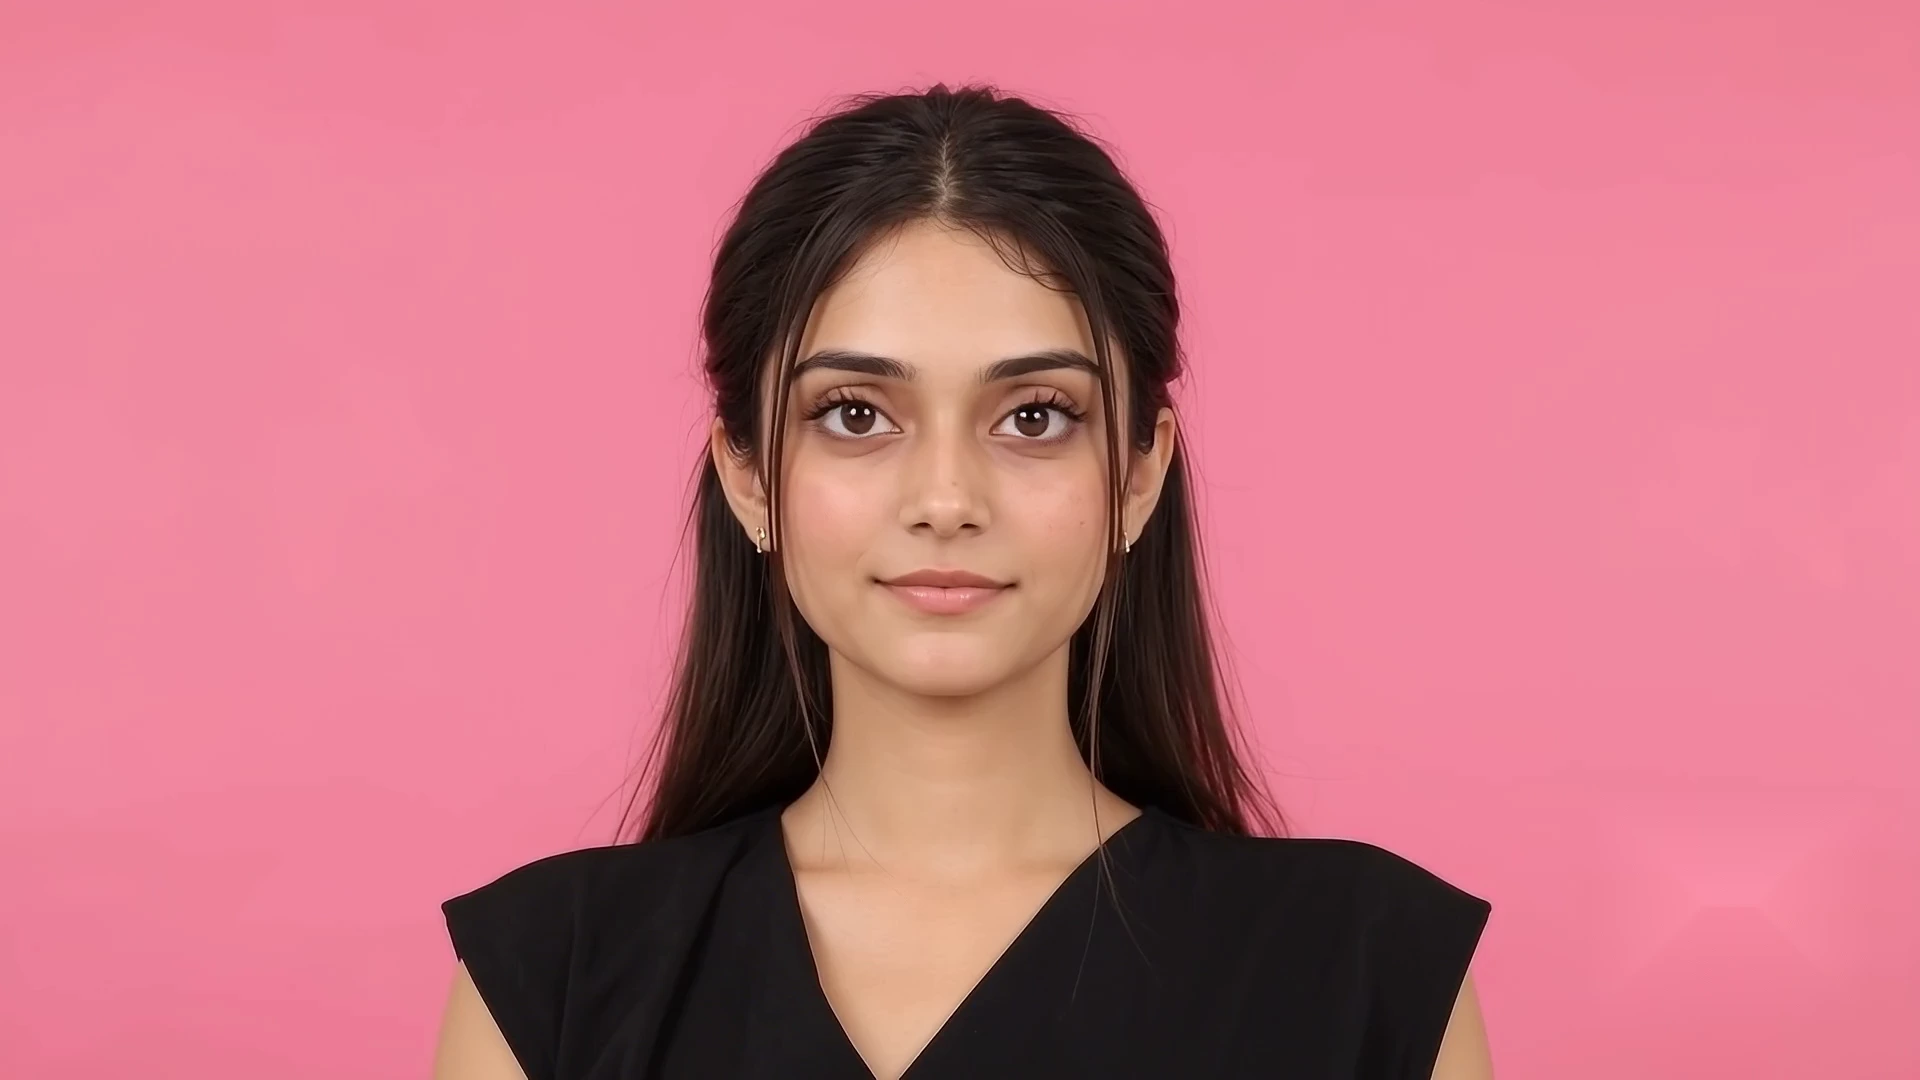
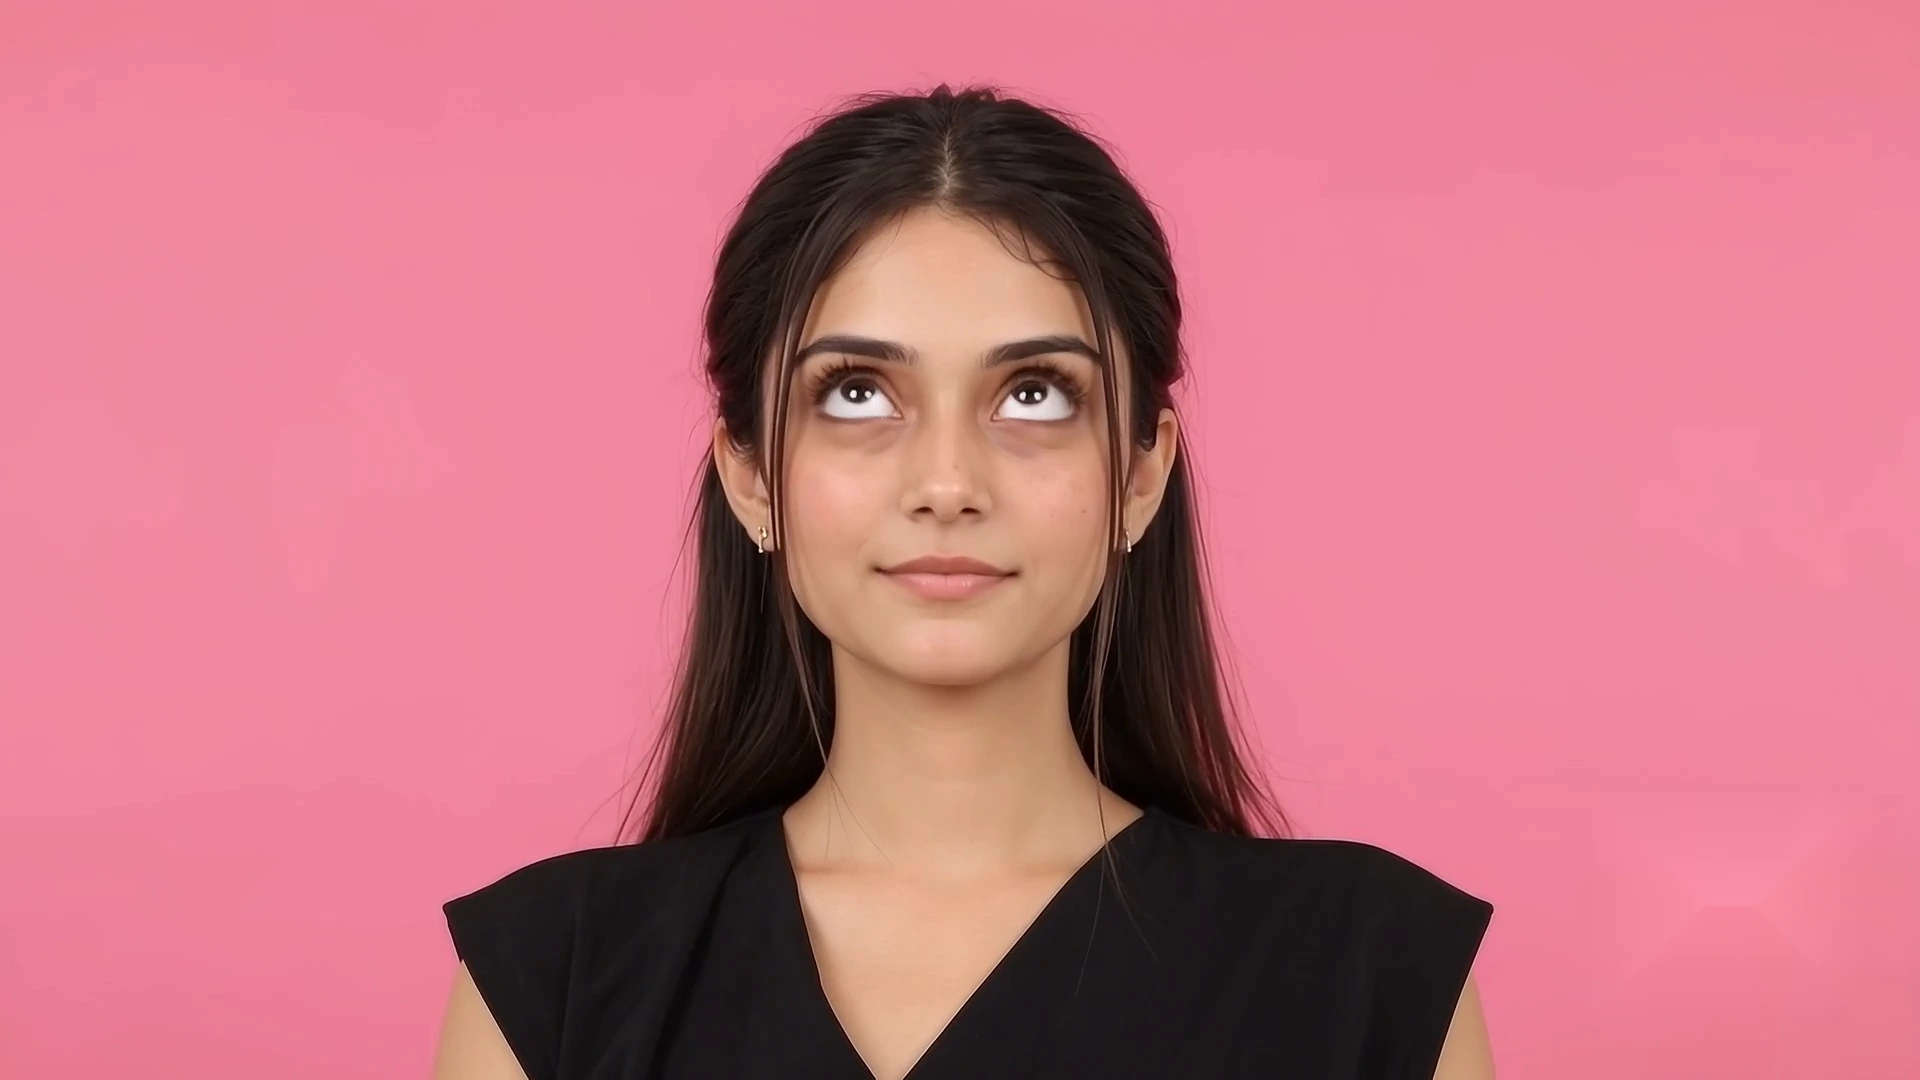
fix: set neutral center frame to true straight-ahead eye contact (Frame 0)

diff --git a/extract_frames.py b/extract_frames.py
@@ -20,7 +20,7 @@ frame_map = [
     # 0..7: 0° to 45° (RIGHT -> UP-RIGHT)
     128, 126, 124, 122, 120, 118, 116, 114,
     # 8..15: 45° to 90° (UP-RIGHT -> UP)
-    112, 110, 108, 0, 4, 8, 12, 16,
+    112, 110, 108, 6, 7, 8, 12, 16,
     # 16..23: 90° to 135° (UP -> UP-LEFT)
     18, 20, 22, 24, 26, 28, 60, 62,
     # 24..31: 135° to 180° (UP-LEFT -> LEFT)
@@ -47,7 +47,7 @@ if not cap.isOpened():
 
 all_frames = {}
 needed = set(frame_map)
-needed.add(108) # Center direct eye-contact frame
+needed.add(0) # Frame 0: True direct eye-contact, looking completely straight at the camera
 
 f_idx = 0
 while True:
@@ -66,8 +66,8 @@ for i, f_num in enumerate(frame_map):
     out_path = os.path.join(OUT_DIR, f"{i:03d}.webp")
     cv2.imwrite(out_path, cleaned, [cv2.IMWRITE_WEBP_QUALITY, 92])
 
-# Save center eye-contact frame (Frame 108)
-cleaned_center = inpaint_frame(all_frames[108])
+# Save center eye-contact frame (Frame 0: True Straight Ahead)
+cleaned_center = inpaint_frame(all_frames[0])
 cv2.imwrite(os.path.join(OUT_DIR, "center.webp"), cleaned_center, [cv2.IMWRITE_WEBP_QUALITY, 92])
 
-print(f"Successfully saved 64 WebP frames + center.webp to {OUT_DIR}")
+print(f"Successfully saved 64 WebP frames + center.webp (true straight eye-contact) to {OUT_DIR}")
